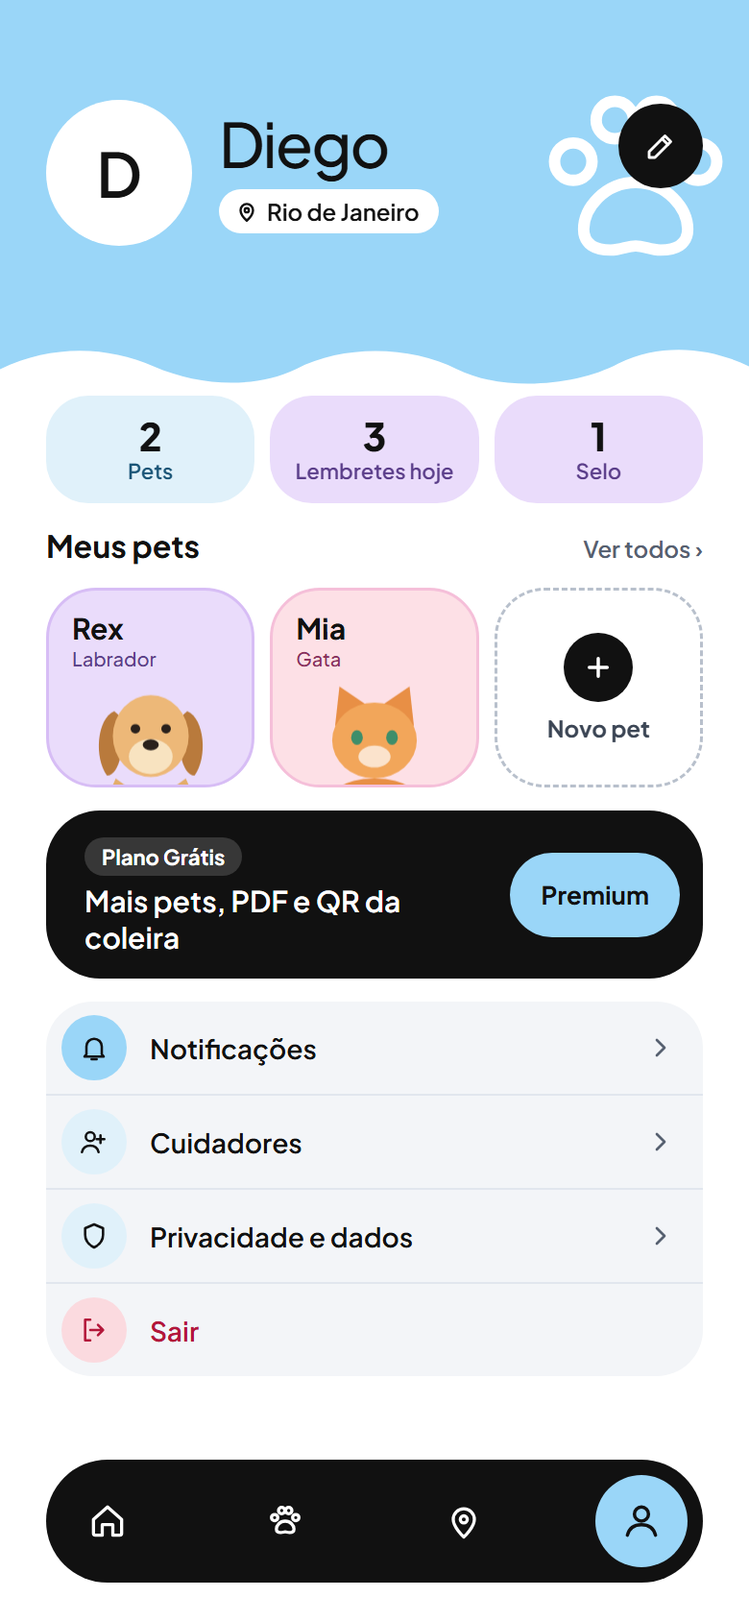
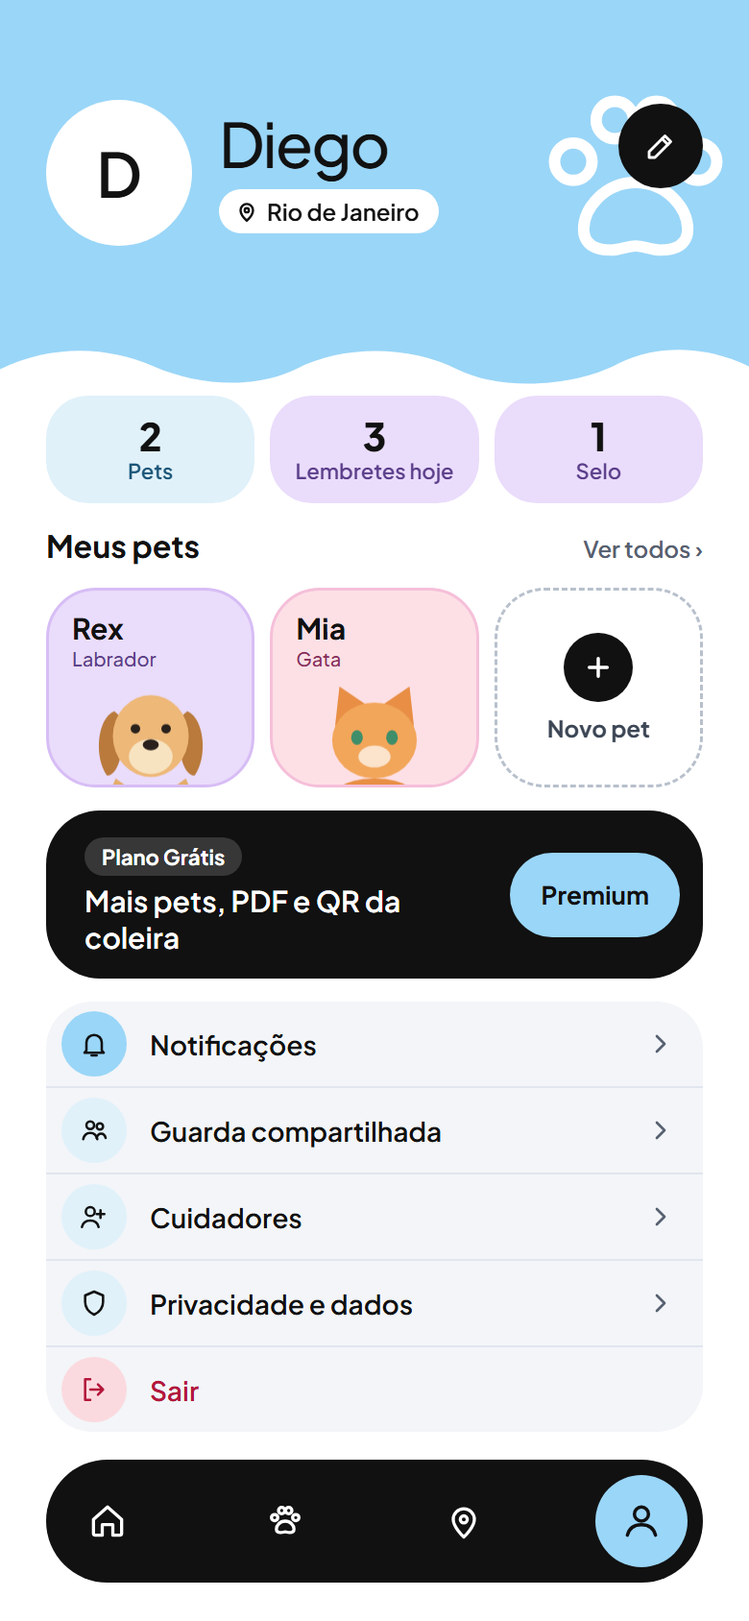
Protótipo: telas da guarda compartilhada (101 a 104)
Guarda compartilhada, Convidar pessoa com vários pets, Convite recebido e
Atualizações do pet. O Perfil ganha a linha Guarda compartilhada; canvas,
miniaturas e imagens atualizados.

diff --git a/prototipo/GuardaAtividade.dc.html b/prototipo/GuardaAtividade.dc.html
@@ -1,0 +1,41 @@
+<!doctype html>
+<html lang="pt-BR">
+<head>
+<meta charset="utf-8">
+<title>Atualizações do pet</title>
+<script src="./support.js"></script>
+</head>
+<body>
+<x-dc>
+<helmet>
+<link rel="stylesheet" href="https://fonts.googleapis.com/css2?family=Plus+Jakarta+Sans:wght@400;500;600;700;800&display=swap">
+<style>
+body{margin:0;font-family:'Plus Jakarta Sans',system-ui,sans-serif;color:#111}
+a{text-decoration:none;color:inherit}
+input::placeholder{color:#8A93A3}
+@media (prefers-reduced-motion:no-preference){
+@keyframes rise{from{opacity:0;translate:0 18px}to{opacity:1;translate:0 0}}
+.rise{animation:rise .6s cubic-bezier(.2,.7,.2,1) both}
+.rise:nth-child(2){animation-delay:.08s}
+.rise:nth-child(3){animation-delay:.16s}
+a{transition:transform .18s ease}
+.tap:hover{transform:translateY(-2px)}
+.tap:active{transform:scale(.97)}
+}
+.etq{display:inline-flex;align-items:center;height:22px;padding:0 9px;border-radius:999px;font-size:11px;font-weight:700}
+.sec{font-weight:700;font-size:15px;margin-top:4px}
+</style>
+</helmet>
+<div style="width:390px;height:844px;box-sizing:border-box;background:#fff;display:flex;flex-direction:column;overflow:hidden">
+<div style="position:relative;height:196px;background:#9AD6F8;flex:none;overflow:hidden;isolation:isolate"><a href="Pet.dc.html" aria-label="Voltar" style="position:absolute;left:24px;top:52px;width:46px;height:46px;border-radius:50%;background:#fff;display:flex;align-items:center;justify-content:center;z-index:1"><svg width="20" height="20" viewBox="0 0 24 24" fill="none" stroke="#111" stroke-width="2.2" stroke-linecap="round" stroke-linejoin="round" aria-hidden="true"><path d="M15 5l-7 7 7 7"/></svg></a><svg style="position:absolute;right:14px;top:40px" width="104" height="104" viewBox="0 0 24 24" fill="none" stroke="#fff" stroke-width="1.1" stroke-linecap="round" stroke-linejoin="round" aria-hidden="true"><circle cx="9" cy="8" r="3"/><circle cx="16.5" cy="9" r="2.5"/><path d="M3.5 19c.6-3.2 2.8-5 5.5-5s4.9 1.8 5.5 5"/><path d="M14 18c.5-2.2 1.9-3.4 3.5-3.4s3 1.2 3.5 3.4"/></svg><div style="position:absolute;left:24px;top:100px;font-size:13px;font-weight:600;color:#1A5577;z-index:1">Guarda compartilhada</div><h1 style="position:absolute;left:24px;top:118px;margin:0;font-weight:500;font-size:32px;line-height:1.05;letter-spacing:-0.03em;z-index:1">Atualizações do Rex</h1><svg style="position:absolute;left:0;bottom:-1px;" width="390" height="46" viewBox="0 0 390 46" preserveAspectRatio="none" aria-hidden="true"><path d="M0 46V26C28 8 56 10 80 24C104 38 132 40 154 26C180 8 214 10 238 26C262 42 300 38 322 22C346 6 372 12 390 24V46z" fill="#fff"/></svg></div><div style="flex:1;padding:0 24px 28px;display:flex;flex-direction:column;gap:4px"><div style="display:flex;align-items:center;justify-content:space-between;margin-bottom:6px"><div style="display:flex;align-items:center"><span style="width:34px;height:34px;border-radius:50%;background:#9AD6F8;color:#111;display:flex;align-items:center;justify-content:center;font-weight:700;font-size:14px;flex:none">D</span><span style="margin-left:-8px;border:2px solid #fff;border-radius:50%;display:flex"><span style="width:30px;height:30px;border-radius:50%;background:#F3F5F8;color:#111;display:flex;align-items:center;justify-content:center;font-weight:700;font-size:12px;flex:none">A</span></span><span style="margin-left:8px;font-size:13px;font-weight:600">Você e Ana</span></div><span style="display:inline-flex;align-items:center;gap:6px;font-size:12px;font-weight:700;color:#1F6B45"><span style="width:8px;height:8px;border-radius:50%;background:#2E9E62"></span>Atualizado agora</span></div><div class="sec">Hoje</div><div class="rise" style="display:flex;flex-direction:column"><div style="display:flex;align-items:center;gap:12px;padding:10px 0"><span style="position:relative;flex:none"><span style="width:42px;height:42px;border-radius:50%;background:#F3F5F8;color:#111;display:flex;align-items:center;justify-content:center;font-weight:700;font-size:17px;flex:none">A</span><span style="position:absolute;right:-4px;bottom:-4px;width:22px;height:22px;border-radius:50%;background:#FDE0E6;border:2px solid #fff;display:flex;align-items:center;justify-content:center"><svg width="11" height="11" viewBox="0 0 24 24" fill="none" stroke="#A3324F" stroke-width="2.6" stroke-linecap="round" stroke-linejoin="round" aria-hidden="true"><path d="M5 19l4-4M10 8l6 6M8 10l7-7 6 6-7 7z"/></svg></span></span><div style="flex:1;min-width:0;font-size:14px;line-height:1.35"><b>Ana</b> registrou a vacina <b>V10</b><div style="font-size:12px;color:#566070">09:14 · Clínica Vet Rio</div></div></div><div style="display:flex;align-items:center;gap:12px;padding:10px 0"><span style="position:relative;flex:none"><span style="width:42px;height:42px;border-radius:50%;background:#F3F5F8;color:#111;display:flex;align-items:center;justify-content:center;font-weight:700;font-size:17px;flex:none">D</span><span style="position:absolute;right:-4px;bottom:-4px;width:22px;height:22px;border-radius:50%;background:#FDE0E6;border:2px solid #fff;display:flex;align-items:center;justify-content:center"><svg width="11" height="11" viewBox="0 0 24 24" fill="none" stroke="#A3324F" stroke-width="2.6" stroke-linecap="round" stroke-linejoin="round" aria-hidden="true"><path d="M5 12l5 5 9-10"/></svg></span></span><div style="flex:1;min-width:0;font-size:14px;line-height:1.35"><b>Você</b> marcou <b>Feito</b> no Antibiótico<div style="font-size:12px;color:#566070">08:02 · dose da manhã</div></div></div><div style="margin:2px 0 6px 54px;background:#FFF0C9;color:#8A6414;border-radius:14px;padding:8px 12px;font-size:12px;font-weight:600">Ana tentou marcar a mesma dose às 8:05. Valeu a sua, sem repetir.</div></div><div class="sec">Ontem</div><div class="rise" style="display:flex;flex-direction:column"><div style="display:flex;align-items:center;gap:12px;padding:10px 0"><span style="position:relative;flex:none"><span style="width:42px;height:42px;border-radius:50%;background:#F3F5F8;color:#111;display:flex;align-items:center;justify-content:center;font-weight:700;font-size:17px;flex:none">A</span><span style="position:absolute;right:-4px;bottom:-4px;width:22px;height:22px;border-radius:50%;background:#FDE0E6;border:2px solid #fff;display:flex;align-items:center;justify-content:center"><svg width="11" height="11" viewBox="0 0 24 24" fill="none" stroke="#A3324F" stroke-width="2.6" stroke-linecap="round" stroke-linejoin="round" aria-hidden="true"><path d="M4 20h16M7 20l2-12h6l2 12"/></svg></span></span><div style="flex:1;min-width:0;font-size:14px;line-height:1.35"><b>Ana</b> registrou o peso: <b>28 kg</b><div style="font-size:12px;color:#566070">19:40</div></div></div><div style="display:flex;align-items:center;gap:12px;padding:10px 0"><span style="position:relative;flex:none"><span style="width:42px;height:42px;border-radius:50%;background:#F3F5F8;color:#111;display:flex;align-items:center;justify-content:center;font-weight:700;font-size:17px;flex:none">A</span><span style="position:absolute;right:-4px;bottom:-4px;width:22px;height:22px;border-radius:50%;background:#EADCFB;border:2px solid #fff;display:flex;align-items:center;justify-content:center"><svg width="11" height="11" viewBox="0 0 24 24" fill="none" stroke="#5B3E8A" stroke-width="2.6" stroke-linecap="round" stroke-linejoin="round" aria-hidden="true"><path d="M4 18c4-1 6-5 8-8s4-4 8-4"/></svg></span></span><div style="flex:1;min-width:0;font-size:14px;line-height:1.35"><b>Ana</b> fez um passeio de <b>34 min</b><div style="font-size:12px;color:#566070">18:10 · 2,1 km</div></div></div><div style="display:flex;align-items:center;gap:12px;padding:10px 0"><span style="position:relative;flex:none"><span style="width:42px;height:42px;border-radius:50%;background:#F3F5F8;color:#111;display:flex;align-items:center;justify-content:center;font-weight:700;font-size:17px;flex:none">D</span><span style="position:absolute;right:-4px;bottom:-4px;width:22px;height:22px;border-radius:50%;background:#EADCFB;border:2px solid #fff;display:flex;align-items:center;justify-content:center"><svg width="11" height="11" viewBox="0 0 24 24" fill="none" stroke="#5B3E8A" stroke-width="2.6" stroke-linecap="round" stroke-linejoin="round" aria-hidden="true"><path d="M6 17V11a6 6 0 0 1 12 0v6l1.5 2h-15z"/></svg></span></span><div style="flex:1;min-width:0;font-size:14px;line-height:1.35"><b>Você</b> criou o lembrete <b>Banho</b><div style="font-size:12px;color:#566070">10:22 · a cada 15 dias</div></div></div></div><a href="GuardaCompartilhada.dc.html" class="tap" style="margin-top:auto;display:flex;align-items:center;gap:12px;background:#F3F5F8;border-radius:24px;padding:12px 16px"><span style="flex:1;font-size:13px;line-height:1.4;color:#566070"><b style="color:#111;display:block;font-size:14px">Quem cuida do Rex</b>Você (titular) e Ana</span><svg width="18" height="18" viewBox="0 0 24 24" fill="none" stroke="#111" stroke-width="2" stroke-linecap="round" stroke-linejoin="round" aria-hidden="true"><path d="M9 6l6 6-6 6"/></svg></a></div>
+</div>
+</x-dc>
+<script type="text/x-dc" data-dc-script data-props='{"$preview":{"width":390,"height":844}}'>
+class Component extends DCLogic {
+  renderVals() {
+    return {};
+  }
+}
+</script>
+</body>
+</html>

diff --git a/prototipo/GuardaCompartilhada.dc.html b/prototipo/GuardaCompartilhada.dc.html
@@ -1,0 +1,41 @@
+<!doctype html>
+<html lang="pt-BR">
+<head>
+<meta charset="utf-8">
+<title>Guarda compartilhada</title>
+<script src="./support.js"></script>
+</head>
+<body>
+<x-dc>
+<helmet>
+<link rel="stylesheet" href="https://fonts.googleapis.com/css2?family=Plus+Jakarta+Sans:wght@400;500;600;700;800&display=swap">
+<style>
+body{margin:0;font-family:'Plus Jakarta Sans',system-ui,sans-serif;color:#111}
+a{text-decoration:none;color:inherit}
+input::placeholder{color:#8A93A3}
+@media (prefers-reduced-motion:no-preference){
+@keyframes rise{from{opacity:0;translate:0 18px}to{opacity:1;translate:0 0}}
+.rise{animation:rise .6s cubic-bezier(.2,.7,.2,1) both}
+.rise:nth-child(2){animation-delay:.08s}
+.rise:nth-child(3){animation-delay:.16s}
+a{transition:transform .18s ease}
+.tap:hover{transform:translateY(-2px)}
+.tap:active{transform:scale(.97)}
+}
+.etq{display:inline-flex;align-items:center;height:22px;padding:0 9px;border-radius:999px;font-size:11px;font-weight:700}
+.sec{font-weight:700;font-size:15px;margin-top:4px}
+</style>
+</helmet>
+<div style="width:390px;height:844px;box-sizing:border-box;background:#fff;display:flex;flex-direction:column;overflow:hidden">
+<div style="position:relative;height:196px;background:#9AD6F8;flex:none;overflow:hidden;isolation:isolate"><a href="Perfil.dc.html" aria-label="Voltar" style="position:absolute;left:24px;top:52px;width:46px;height:46px;border-radius:50%;background:#fff;display:flex;align-items:center;justify-content:center;z-index:1"><svg width="20" height="20" viewBox="0 0 24 24" fill="none" stroke="#111" stroke-width="2.2" stroke-linecap="round" stroke-linejoin="round" aria-hidden="true"><path d="M15 5l-7 7 7 7"/></svg></a><svg style="position:absolute;right:14px;top:40px" width="104" height="104" viewBox="0 0 24 24" fill="none" stroke="#fff" stroke-width="1.1" stroke-linecap="round" stroke-linejoin="round" aria-hidden="true"><circle cx="9" cy="8" r="3"/><circle cx="16.5" cy="9" r="2.5"/><path d="M3.5 19c.6-3.2 2.8-5 5.5-5s4.9 1.8 5.5 5"/><path d="M14 18c.5-2.2 1.9-3.4 3.5-3.4s3 1.2 3.5 3.4"/></svg><div style="position:absolute;left:24px;top:100px;font-size:13px;font-weight:600;color:#1A5577;z-index:1">Divida os cuidados dos seus pets</div><h1 style="position:absolute;left:24px;top:118px;margin:0;font-weight:500;font-size:32px;line-height:1.05;letter-spacing:-0.03em;z-index:1">Guarda compartilhada</h1><svg style="position:absolute;left:0;bottom:-1px;" width="390" height="46" viewBox="0 0 390 46" preserveAspectRatio="none" aria-hidden="true"><path d="M0 46V26C28 8 56 10 80 24C104 38 132 40 154 26C180 8 214 10 238 26C262 42 300 38 322 22C346 6 372 12 390 24V46z" fill="#fff"/></svg></div><div style="flex:1;padding:6px 24px 28px;display:flex;flex-direction:column;gap:12px"><div class="rise" style="background:#E0F1FA;border-radius:24px;padding:14px 18px;font-size:13px;line-height:1.45;color:#1A5577"><b style="color:#111">Quem divide a guarda cuida junto:</b> vê e atualiza vacinas, remédios, peso e lembretes. Tudo o que um registra aparece para todos na hora.</div><div class="sec">Pessoas</div><a href="GuardaAtividade.dc.html" class="rise tap" style="display:flex;flex-direction:column;gap:10px;background:#fff;border:1.5px solid #E1E6EE;border-radius:26px;padding:14px 16px"><div style="display:flex;align-items:center;gap:12px"><span style="width:44px;height:44px;border-radius:50%;background:#F3F5F8;color:#111;display:flex;align-items:center;justify-content:center;font-weight:700;font-size:18px;flex:none">A</span><div style="flex:1;min-width:0"><div style="font-weight:700;font-size:16px">Ana</div><div style="font-size:12px;color:#566070">Desde 12/10 · atualizou há 2 h</div></div><span class="etq" style="background:#D8F2E3;color:#1F6B45">Ativa</span></div><div style="display:flex;gap:6px;flex-wrap:wrap"><span style="display:inline-flex;align-items:center;gap:6px;height:30px;padding:0 10px 0 3px;border-radius:999px;background:#fff;border:1.5px solid #E1E6EE;box-sizing:border-box;font-size:12px;font-weight:700"><span style="width:24px;height:24px;border-radius:50%;background:#CFE8FB;overflow:hidden;display:flex;align-items:flex-end;justify-content:center;flex:none"><svg width="20" height="20" viewBox="0 0 200 200" aria-hidden="true"><path d="M52 150Q100 190 148 150L170 200H30z" fill="#E3AD6A"/><path d="M50 58C26 68 22 122 40 146C58 146 64 102 64 70z" fill="#B97A3C"/><path d="M150 58C174 68 178 122 160 146C142 146 136 102 136 70z" fill="#B97A3C"/><ellipse cx="100" cy="92" rx="52" ry="56" fill="#EDB878"/><ellipse cx="100" cy="120" rx="30" ry="24" fill="#F8E3C0"/><ellipse cx="100" cy="104" rx="11" ry="7.5" fill="#2A211C"/><circle cx="79" cy="82" r="7" fill="#2A211C"/><circle cx="121" cy="82" r="7" fill="#2A211C"/></svg></span>Rex</span><span style="display:inline-flex;align-items:center;gap:6px;height:30px;padding:0 10px 0 3px;border-radius:999px;background:#fff;border:1.5px solid #E1E6EE;box-sizing:border-box;font-size:12px;font-weight:700"><span style="width:24px;height:24px;border-radius:50%;background:#EADCFB;overflow:hidden;display:flex;align-items:flex-end;justify-content:center;flex:none"><svg width="20" height="20" viewBox="0 0 200 200" aria-hidden="true"><path d="M30 200Q36 150 100 150Q164 150 170 200z" fill="#E88F45"/><path d="M46 78L52 24L96 54z" fill="#E88F45"/><path d="M154 78L148 24L104 54z" fill="#E88F45"/><ellipse cx="100" cy="98" rx="58" ry="52" fill="#F2A65A"/><ellipse cx="100" cy="120" rx="22" ry="15" fill="#FBE3CC"/><ellipse cx="76" cy="94" rx="8" ry="10" fill="#3E8E6A"/><ellipse cx="124" cy="94" rx="8" ry="10" fill="#3E8E6A"/><ellipse cx="76" cy="94" rx="2.5" ry="7" fill="#1D1A18"/><ellipse cx="124" cy="94" rx="2.5" ry="7" fill="#1D1A18"/><path d="M93 109h14l-7 9z" fill="#E57373"/></svg></span>Mia</span></div></a><div class="rise" style="display:flex;flex-direction:column;gap:10px;background:#fff;border:1.5px solid #E1E6EE;border-radius:26px;padding:14px 16px"><div style="display:flex;align-items:center;gap:12px"><span style="width:44px;height:44px;border-radius:50%;background:#F3F5F8;color:#111;display:flex;align-items:center;justify-content:center;font-weight:700;font-size:18px;flex:none">C</span><div style="flex:1;min-width:0"><div style="font-weight:700;font-size:16px">carlos@email.com</div><div style="font-size:12px;color:#566070">Convite enviado · vale até 01/11</div></div><span class="etq" style="background:#FFF0C9;color:#8A6414">Aguardando</span></div><div style="display:flex;gap:6px;align-items:center;justify-content:space-between"><span style="display:inline-flex;align-items:center;gap:6px;height:30px;padding:0 10px 0 3px;border-radius:999px;background:#fff;border:1.5px solid #E1E6EE;box-sizing:border-box;font-size:12px;font-weight:700"><span style="width:24px;height:24px;border-radius:50%;background:#CFE8FB;overflow:hidden;display:flex;align-items:flex-end;justify-content:center;flex:none"><svg width="20" height="20" viewBox="0 0 200 200" aria-hidden="true"><path d="M52 150Q100 190 148 150L170 200H30z" fill="#E3AD6A"/><path d="M50 58C26 68 22 122 40 146C58 146 64 102 64 70z" fill="#B97A3C"/><path d="M150 58C174 68 178 122 160 146C142 146 136 102 136 70z" fill="#B97A3C"/><ellipse cx="100" cy="92" rx="52" ry="56" fill="#EDB878"/><ellipse cx="100" cy="120" rx="30" ry="24" fill="#F8E3C0"/><ellipse cx="100" cy="104" rx="11" ry="7.5" fill="#2A211C"/><circle cx="79" cy="82" r="7" fill="#2A211C"/><circle cx="121" cy="82" r="7" fill="#2A211C"/></svg></span>Rex</span><span style="font-size:12px;font-weight:700;color:#A3324F">Cancelar convite</span></div></div><div style="font-size:12px;line-height:1.45;color:#566070;padding:0 4px">Até 4 pessoas por pet. Só você apaga o pet, convida ou remove pessoas. Incluído no Premium.</div><a href="GuardaConvidar.dc.html" style="margin-top:auto;height:64px;border-radius:32px;background:#111;color:#fff;display:flex;align-items:center;padding:0 6px;flex:none"><span style="width:52px;height:52px;border-radius:50%;background:#9AD6F8;display:flex;align-items:center;justify-content:center;flex:none"><svg width="22" height="22" viewBox="0 0 24 24" fill="none" stroke="#111" stroke-width="2.6" stroke-linecap="round" stroke-linejoin="round" aria-hidden="true"><path d="M12 5v14M5 12h14"/></svg></span><span style="flex:1;text-align:center;font-weight:600;font-size:17px;padding-right:52px">Convidar pessoa</span></a></div>
+</div>
+</x-dc>
+<script type="text/x-dc" data-dc-script data-props='{"$preview":{"width":390,"height":844}}'>
+class Component extends DCLogic {
+  renderVals() {
+    return {};
+  }
+}
+</script>
+</body>
+</html>

diff --git a/prototipo/GuardaConvidar.dc.html b/prototipo/GuardaConvidar.dc.html
@@ -1,0 +1,41 @@
+<!doctype html>
+<html lang="pt-BR">
+<head>
+<meta charset="utf-8">
+<title>Convidar pessoa</title>
+<script src="./support.js"></script>
+</head>
+<body>
+<x-dc>
+<helmet>
+<link rel="stylesheet" href="https://fonts.googleapis.com/css2?family=Plus+Jakarta+Sans:wght@400;500;600;700;800&display=swap">
+<style>
+body{margin:0;font-family:'Plus Jakarta Sans',system-ui,sans-serif;color:#111}
+a{text-decoration:none;color:inherit}
+input::placeholder{color:#8A93A3}
+@media (prefers-reduced-motion:no-preference){
+@keyframes rise{from{opacity:0;translate:0 18px}to{opacity:1;translate:0 0}}
+.rise{animation:rise .6s cubic-bezier(.2,.7,.2,1) both}
+.rise:nth-child(2){animation-delay:.08s}
+.rise:nth-child(3){animation-delay:.16s}
+a{transition:transform .18s ease}
+.tap:hover{transform:translateY(-2px)}
+.tap:active{transform:scale(.97)}
+}
+.etq{display:inline-flex;align-items:center;height:22px;padding:0 9px;border-radius:999px;font-size:11px;font-weight:700}
+.sec{font-weight:700;font-size:15px;margin-top:4px}
+</style>
+</helmet>
+<div style="width:390px;height:844px;box-sizing:border-box;background:#fff;display:flex;flex-direction:column;overflow:hidden">
+<div style="position:relative;height:196px;background:#9AD6F8;flex:none;overflow:hidden;isolation:isolate"><a href="GuardaCompartilhada.dc.html" aria-label="Voltar" style="position:absolute;left:24px;top:52px;width:46px;height:46px;border-radius:50%;background:#fff;display:flex;align-items:center;justify-content:center;z-index:1"><svg width="20" height="20" viewBox="0 0 24 24" fill="none" stroke="#111" stroke-width="2.2" stroke-linecap="round" stroke-linejoin="round" aria-hidden="true"><path d="M15 5l-7 7 7 7"/></svg></a><svg style="position:absolute;right:14px;top:40px" width="104" height="104" viewBox="0 0 24 24" fill="none" stroke="#fff" stroke-width="1.1" stroke-linecap="round" stroke-linejoin="round" aria-hidden="true"><circle cx="9" cy="8" r="3"/><circle cx="16.5" cy="9" r="2.5"/><path d="M3.5 19c.6-3.2 2.8-5 5.5-5s4.9 1.8 5.5 5"/><path d="M14 18c.5-2.2 1.9-3.4 3.5-3.4s3 1.2 3.5 3.4"/></svg><div style="position:absolute;left:24px;top:100px;font-size:13px;font-weight:600;color:#1A5577;z-index:1">Guarda compartilhada</div><h1 style="position:absolute;left:24px;top:118px;margin:0;font-weight:500;font-size:32px;line-height:1.05;letter-spacing:-0.03em;z-index:1">Convidar pessoa</h1><svg style="position:absolute;left:0;bottom:-1px;" width="390" height="46" viewBox="0 0 390 46" preserveAspectRatio="none" aria-hidden="true"><path d="M0 46V26C28 8 56 10 80 24C104 38 132 40 154 26C180 8 214 10 238 26C262 42 300 38 322 22C346 6 372 12 390 24V46z" fill="#fff"/></svg></div><div style="flex:1;padding:6px 24px 28px;display:flex;flex-direction:column;gap:12px"><div style="background:#F3F5F8;border-radius:24px;padding:10px 20px;display:flex;flex-direction:column"><label for="email" style="font-size:12px;font-weight:600;color:#566070">E-mail da pessoa</label><input id="email" type="email" value="ana@email.com" style="border:0;background:transparent;outline:0;font:inherit;font-size:16px;font-weight:600;padding:2px 0;height:26px"></div><div class="sec">Quais pets? <span style="font-weight:500;font-size:13px;color:#566070">Escolha um ou mais</span></div><div class="rise tap" style="display:flex;align-items:center;gap:12px;background:#fff;border:2px solid #111;border-radius:24px;padding:10px 14px 10px 10px"><span style="width:48px;height:48px;border-radius:50%;background:#CFE8FB;overflow:hidden;display:flex;align-items:flex-end;justify-content:center;flex:none"><svg width="44" height="44" viewBox="0 0 200 200" aria-hidden="true"><path d="M52 150Q100 190 148 150L170 200H30z" fill="#E3AD6A"/><path d="M50 58C26 68 22 122 40 146C58 146 64 102 64 70z" fill="#B97A3C"/><path d="M150 58C174 68 178 122 160 146C142 146 136 102 136 70z" fill="#B97A3C"/><ellipse cx="100" cy="92" rx="52" ry="56" fill="#EDB878"/><ellipse cx="100" cy="120" rx="30" ry="24" fill="#F8E3C0"/><ellipse cx="100" cy="104" rx="11" ry="7.5" fill="#2A211C"/><circle cx="79" cy="82" r="7" fill="#2A211C"/><circle cx="121" cy="82" r="7" fill="#2A211C"/></svg></span><div style="flex:1"><div style="font-weight:700;font-size:15px">Rex</div><div style="font-size:12px;color:#566070">Labrador · 3 anos</div></div><span style="width:28px;height:28px;border-radius:50%;background:#111;display:flex;align-items:center;justify-content:center;flex:none"><svg width="14" height="14" viewBox="0 0 24 24" fill="none" stroke="#fff" stroke-width="3" stroke-linecap="round" stroke-linejoin="round" aria-hidden="true"><path d="M5 12l5 5 9-10"/></svg></span></div><div class="rise tap" style="display:flex;align-items:center;gap:12px;background:#fff;border:2px solid #111;border-radius:24px;padding:10px 14px 10px 10px"><span style="width:48px;height:48px;border-radius:50%;background:#EADCFB;overflow:hidden;display:flex;align-items:flex-end;justify-content:center;flex:none"><svg width="44" height="44" viewBox="0 0 200 200" aria-hidden="true"><path d="M30 200Q36 150 100 150Q164 150 170 200z" fill="#E88F45"/><path d="M46 78L52 24L96 54z" fill="#E88F45"/><path d="M154 78L148 24L104 54z" fill="#E88F45"/><ellipse cx="100" cy="98" rx="58" ry="52" fill="#F2A65A"/><ellipse cx="100" cy="120" rx="22" ry="15" fill="#FBE3CC"/><ellipse cx="76" cy="94" rx="8" ry="10" fill="#3E8E6A"/><ellipse cx="124" cy="94" rx="8" ry="10" fill="#3E8E6A"/><ellipse cx="76" cy="94" rx="2.5" ry="7" fill="#1D1A18"/><ellipse cx="124" cy="94" rx="2.5" ry="7" fill="#1D1A18"/><path d="M93 109h14l-7 9z" fill="#E57373"/></svg></span><div style="flex:1"><div style="font-weight:700;font-size:15px">Mia</div><div style="font-size:12px;color:#566070">Gata · 12 anos</div></div><span style="width:28px;height:28px;border-radius:50%;background:#111;display:flex;align-items:center;justify-content:center;flex:none"><svg width="14" height="14" viewBox="0 0 24 24" fill="none" stroke="#fff" stroke-width="3" stroke-linecap="round" stroke-linejoin="round" aria-hidden="true"><path d="M5 12l5 5 9-10"/></svg></span></div><div style="display:grid;grid-template-columns:1fr 1fr;gap:8px"><div style="background:#D8F2E3;border-radius:22px;padding:12px 14px;font-size:12px;line-height:1.5;color:#1F6B45"><b style="display:block;font-size:13px;margin-bottom:2px">Pode</b>Ver e atualizar vacinas, remédios e doses, peso, consultas e lembretes</div><div style="background:#F3F5F8;border-radius:22px;padding:12px 14px;font-size:12px;line-height:1.5;color:#566070"><b style="display:block;font-size:13px;margin-bottom:2px;color:#111">Não pode</b>Apagar o pet, convidar pessoas, ver seu contato e pagamentos</div></div><div style="font-size:12px;line-height:1.45;color:#566070;padding:0 4px">A pessoa recebe o convite no app e por e-mail. O acesso só começa quando ela aceitar. O convite vale 7 dias.</div><a href="GuardaCompartilhada.dc.html" style="margin-top:auto;height:64px;border-radius:32px;background:#111;color:#fff;display:flex;align-items:center;padding:0 6px;flex:none"><span style="width:52px;height:52px;border-radius:50%;background:#9AD6F8;display:flex;align-items:center;justify-content:center;flex:none"><svg width="22" height="22" viewBox="0 0 24 24" fill="none" stroke="#111" stroke-width="2.6" stroke-linecap="round" stroke-linejoin="round" aria-hidden="true"><path d="M4 12l16-8-6 16-3-7z"/></svg></span><span style="flex:1;text-align:center;font-weight:600;font-size:17px;padding-right:52px">Enviar convite</span></a></div>
+</div>
+</x-dc>
+<script type="text/x-dc" data-dc-script data-props='{"$preview":{"width":390,"height":844}}'>
+class Component extends DCLogic {
+  renderVals() {
+    return {};
+  }
+}
+</script>
+</body>
+</html>

diff --git a/prototipo/GuardaConvite.dc.html b/prototipo/GuardaConvite.dc.html
@@ -1,0 +1,41 @@
+<!doctype html>
+<html lang="pt-BR">
+<head>
+<meta charset="utf-8">
+<title>Convite de guarda</title>
+<script src="./support.js"></script>
+</head>
+<body>
+<x-dc>
+<helmet>
+<link rel="stylesheet" href="https://fonts.googleapis.com/css2?family=Plus+Jakarta+Sans:wght@400;500;600;700;800&display=swap">
+<style>
+body{margin:0;font-family:'Plus Jakarta Sans',system-ui,sans-serif;color:#111}
+a{text-decoration:none;color:inherit}
+input::placeholder{color:#8A93A3}
+@media (prefers-reduced-motion:no-preference){
+@keyframes rise{from{opacity:0;translate:0 18px}to{opacity:1;translate:0 0}}
+.rise{animation:rise .6s cubic-bezier(.2,.7,.2,1) both}
+.rise:nth-child(2){animation-delay:.08s}
+.rise:nth-child(3){animation-delay:.16s}
+a{transition:transform .18s ease}
+.tap:hover{transform:translateY(-2px)}
+.tap:active{transform:scale(.97)}
+}
+.etq{display:inline-flex;align-items:center;height:22px;padding:0 9px;border-radius:999px;font-size:11px;font-weight:700}
+.sec{font-weight:700;font-size:15px;margin-top:4px}
+</style>
+</helmet>
+<div style="width:390px;height:844px;box-sizing:border-box;background:#fff;display:flex;flex-direction:column;overflow:hidden">
+<div style="position:relative;height:250px;background:#9AD6F8;flex:none;overflow:hidden;isolation:isolate"><svg style="position:absolute;right:14px;top:40px" width="104" height="104" viewBox="0 0 24 24" fill="none" stroke="#fff" stroke-width="1.1" stroke-linecap="round" stroke-linejoin="round" aria-hidden="true"><circle cx="9" cy="8" r="3"/><circle cx="16.5" cy="9" r="2.5"/><path d="M3.5 19c.6-3.2 2.8-5 5.5-5s4.9 1.8 5.5 5"/><path d="M14 18c.5-2.2 1.9-3.4 3.5-3.4s3 1.2 3.5 3.4"/></svg><div style="position:absolute;left:24px;top:58px;display:flex;align-items:center;gap:10px;z-index:1"><span style="width:46px;height:46px;border-radius:50%;background:#fff;color:#111;display:flex;align-items:center;justify-content:center;font-weight:700;font-size:19px;flex:none">D</span><span style="font-size:14px;font-weight:600">Diego convidou você</span></div><h1 style="position:absolute;left:24px;right:24px;top:118px;margin:0;font-weight:500;font-size:30px;line-height:1.1;letter-spacing:-0.03em;z-index:1">Dividir os cuidados do Rex e da Mia</h1><svg style="position:absolute;left:0;bottom:-1px;" width="390" height="46" viewBox="0 0 390 46" preserveAspectRatio="none" aria-hidden="true"><path d="M0 46V26C28 8 56 10 80 24C104 38 132 40 154 26C180 8 214 10 238 26C262 42 300 38 322 22C346 6 372 12 390 24V46z" fill="#fff"/></svg></div><div style="flex:1;padding:6px 24px 28px;display:flex;flex-direction:column;gap:12px"><div class="sec">Aceitar quais pets?</div><div class="rise tap" style="display:flex;align-items:center;gap:12px;background:#fff;border:2px solid #111;border-radius:24px;padding:10px 14px 10px 10px"><span style="width:48px;height:48px;border-radius:50%;background:#CFE8FB;overflow:hidden;display:flex;align-items:flex-end;justify-content:center;flex:none"><svg width="44" height="44" viewBox="0 0 200 200" aria-hidden="true"><path d="M52 150Q100 190 148 150L170 200H30z" fill="#E3AD6A"/><path d="M50 58C26 68 22 122 40 146C58 146 64 102 64 70z" fill="#B97A3C"/><path d="M150 58C174 68 178 122 160 146C142 146 136 102 136 70z" fill="#B97A3C"/><ellipse cx="100" cy="92" rx="52" ry="56" fill="#EDB878"/><ellipse cx="100" cy="120" rx="30" ry="24" fill="#F8E3C0"/><ellipse cx="100" cy="104" rx="11" ry="7.5" fill="#2A211C"/><circle cx="79" cy="82" r="7" fill="#2A211C"/><circle cx="121" cy="82" r="7" fill="#2A211C"/></svg></span><div style="flex:1"><div style="font-weight:700;font-size:15px">Rex</div><div style="font-size:12px;color:#566070">Labrador · 3 anos</div></div><span style="width:28px;height:28px;border-radius:50%;background:#111;display:flex;align-items:center;justify-content:center;flex:none"><svg width="14" height="14" viewBox="0 0 24 24" fill="none" stroke="#fff" stroke-width="3" stroke-linecap="round" stroke-linejoin="round" aria-hidden="true"><path d="M5 12l5 5 9-10"/></svg></span></div><div class="rise tap" style="display:flex;align-items:center;gap:12px;background:#fff;border:2px solid #111;border-radius:24px;padding:10px 14px 10px 10px"><span style="width:48px;height:48px;border-radius:50%;background:#EADCFB;overflow:hidden;display:flex;align-items:flex-end;justify-content:center;flex:none"><svg width="44" height="44" viewBox="0 0 200 200" aria-hidden="true"><path d="M30 200Q36 150 100 150Q164 150 170 200z" fill="#E88F45"/><path d="M46 78L52 24L96 54z" fill="#E88F45"/><path d="M154 78L148 24L104 54z" fill="#E88F45"/><ellipse cx="100" cy="98" rx="58" ry="52" fill="#F2A65A"/><ellipse cx="100" cy="120" rx="22" ry="15" fill="#FBE3CC"/><ellipse cx="76" cy="94" rx="8" ry="10" fill="#3E8E6A"/><ellipse cx="124" cy="94" rx="8" ry="10" fill="#3E8E6A"/><ellipse cx="76" cy="94" rx="2.5" ry="7" fill="#1D1A18"/><ellipse cx="124" cy="94" rx="2.5" ry="7" fill="#1D1A18"/><path d="M93 109h14l-7 9z" fill="#E57373"/></svg></span><div style="flex:1"><div style="font-weight:700;font-size:15px">Mia</div><div style="font-size:12px;color:#566070">Gata · 12 anos</div></div><span style="width:28px;height:28px;border-radius:50%;background:#111;display:flex;align-items:center;justify-content:center;flex:none"><svg width="14" height="14" viewBox="0 0 24 24" fill="none" stroke="#fff" stroke-width="3" stroke-linecap="round" stroke-linejoin="round" aria-hidden="true"><path d="M5 12l5 5 9-10"/></svg></span></div><div style="background:#F3F5F8;border-radius:22px;padding:12px 16px;font-size:13px;line-height:1.5;color:#566070">Você vai ver e atualizar vacinas, remédios, peso e lembretes. O que você registrar aparece para o Diego na hora, com o seu nome. Você pode sair da guarda quando quiser.</div><div style="display:flex;align-items:center;gap:6px;font-size:12px;font-weight:600;color:#8A6414"><span class="etq" style="background:#FFF0C9;color:#8A6414">Vale até 01/11</span>Não precisa de Premium</div><a href="GuardaAtividade.dc.html" style="margin-top:auto;height:64px;border-radius:32px;background:#111;color:#fff;display:flex;align-items:center;padding:0 6px;flex:none"><span style="width:52px;height:52px;border-radius:50%;background:#9AD6F8;display:flex;align-items:center;justify-content:center;flex:none"><svg width="22" height="22" viewBox="0 0 24 24" fill="none" stroke="#111" stroke-width="2.6" stroke-linecap="round" stroke-linejoin="round" aria-hidden="true"><path d="M5 12l5 5 9-10"/></svg></span><span style="flex:1;text-align:center;font-weight:600;font-size:17px;padding-right:52px">Aceitar</span></a><a href="Inicio.dc.html" style="height:52px;border-radius:26px;border:1.5px solid #E1E6EE;display:flex;align-items:center;justify-content:center;font-weight:600;font-size:15px;flex:none">Recusar</a></div>
+</div>
+</x-dc>
+<script type="text/x-dc" data-dc-script data-props='{"$preview":{"width":390,"height":844}}'>
+class Component extends DCLogic {
+  renderVals() {
+    return {};
+  }
+}
+</script>
+</body>
+</html>

diff --git a/prototipo/Perfil.dc.html b/prototipo/Perfil.dc.html
@@ -26,7 +26,7 @@ a{transition:transform .18s ease}
 .tap:active{transform:scale(.97)}
 nav a:hover{transform:translateY(-3px)}
 }
-.row{display:flex;align-items:center;gap:12px;height:48px;padding:0 14px 0 8px;font-size:14px;font-weight:600}
+.row{display:flex;align-items:center;gap:12px;height:44px;padding:0 14px 0 8px;font-size:14px;font-weight:600}
 .row + .row{border-top:1px solid #E1E6EE}
 </style>
 </helmet>
@@ -75,6 +75,7 @@ nav a:hover{transform:translateY(-3px)}
 
     <div class="rise" style="background:#F3F5F8;border-radius:24px;overflow:hidden">
       <a href="Notificacoes.dc.html" class="row"><span style="width:34px;height:34px;border-radius:50%;background:#9AD6F8;display:flex;align-items:center;justify-content:center;flex:none"><svg width="16" height="16" viewBox="0 0 24 24" fill="none" stroke="#111" stroke-width="1.9" stroke-linecap="round" stroke-linejoin="round" aria-hidden="true"><path d="M6 17V11a6 6 0 0 1 12 0v6l1.5 2h-15z"/><path d="M10 21h4"/></svg></span><span style="flex:1">Notificações</span><svg width="16" height="16" viewBox="0 0 24 24" fill="none" stroke="#566070" stroke-width="2" stroke-linecap="round" stroke-linejoin="round" aria-hidden="true"><path d="M9 6l6 6-6 6"/></svg></a>
+      <a href="GuardaCompartilhada.dc.html" class="row"><span style="width:34px;height:34px;border-radius:50%;background:#E0F1FA;display:flex;align-items:center;justify-content:center;flex:none"><svg width="16" height="16" viewBox="0 0 24 24" fill="none" stroke="#111" stroke-width="1.9" stroke-linecap="round" stroke-linejoin="round" aria-hidden="true"><circle cx="9" cy="8" r="3"/><circle cx="16.5" cy="9" r="2.5"/><path d="M3.5 19c.6-3.2 2.8-5 5.5-5s4.9 1.8 5.5 5"/><path d="M14 18c.5-2.2 1.9-3.4 3.5-3.4s3 1.2 3.5 3.4"/></svg></span><span style="flex:1">Guarda compartilhada</span><svg width="16" height="16" viewBox="0 0 24 24" fill="none" stroke="#566070" stroke-width="2" stroke-linecap="round" stroke-linejoin="round" aria-hidden="true"><path d="M9 6l6 6-6 6"/></svg></a>
       <a href="Cuidador.dc.html" class="row"><span style="width:34px;height:34px;border-radius:50%;background:#E0F1FA;display:flex;align-items:center;justify-content:center;flex:none"><svg width="16" height="16" viewBox="0 0 24 24" fill="none" stroke="#111" stroke-width="1.9" stroke-linecap="round" stroke-linejoin="round" aria-hidden="true"><circle cx="9" cy="8" r="3.5"/><path d="M2.5 20c.8-3.5 3.3-5 6.5-5s5.7 1.5 6.5 5"/><path d="M17 7v6M14 10h6"/></svg></span><span style="flex:1">Cuidadores</span><svg width="16" height="16" viewBox="0 0 24 24" fill="none" stroke="#566070" stroke-width="2" stroke-linecap="round" stroke-linejoin="round" aria-hidden="true"><path d="M9 6l6 6-6 6"/></svg></a>
       <a href="PrivacidadeDados.dc.html" class="row"><span style="width:34px;height:34px;border-radius:50%;background:#E0F1FA;display:flex;align-items:center;justify-content:center;flex:none"><svg width="16" height="16" viewBox="0 0 24 24" fill="none" stroke="#111" stroke-width="1.9" stroke-linecap="round" stroke-linejoin="round" aria-hidden="true"><path d="M12 3l7 3v5c0 5-3 8-7 10-4-2-7-5-7-10V6z"/></svg></span><span style="flex:1">Privacidade e dados</span><svg width="16" height="16" viewBox="0 0 24 24" fill="none" stroke="#566070" stroke-width="2" stroke-linecap="round" stroke-linejoin="round" aria-hidden="true"><path d="M9 6l6 6-6 6"/></svg></a>
       <a href="Welcome.dc.html" class="row" style="color:#B3173A"><span style="width:34px;height:34px;border-radius:50%;background:#FBDADF;display:flex;align-items:center;justify-content:center;flex:none"><svg width="16" height="16" viewBox="0 0 24 24" fill="none" stroke="#B3173A" stroke-width="1.9" stroke-linecap="round" stroke-linejoin="round" aria-hidden="true"><path d="M9 4H5v16h4"/><path d="M15 8l4 4-4 4M19 12H9"/></svg></span><span style="flex:1">Sair</span></a>

diff --git a/prototipo/imagens/README.md b/prototipo/imagens/README.md
@@ -28,7 +28,7 @@ Capturas das telas do protótipo, geradas a partir de `prototipo/*.dc.html` e or
 
 # Fase 2 · Premium, eventos, adoção e painel admin
 
-## App do tutor (49)
+## App do tutor (53)
 
 | | | | |
 | --- | --- | --- | --- |
@@ -44,7 +44,8 @@ Capturas das telas do protótipo, geradas a partir de `prototipo/*.dc.html` e or
 | <img src="tutor/83-reativar-o-pet.png" width="160"><br>83 · Reativar o pet | <img src="tutor/84-pet-senior.png" width="160"><br>84 · Pet sênior | <img src="tutor/85-aviso-pet-senior.png" width="160"><br>85 · Aviso: pet sênior | <img src="tutor/85-pet-senior-tela-do-pet.png" width="160"><br>85 · Pet sênior, tela do pet |
 | <img src="tutor/85-qualidade-de-vida.png" width="160"><br>85 · Qualidade de vida | <img src="tutor/88-ficha-da-clinica-com-enviar-ficha.png" width="160"><br>88 · Ficha da clínica com enviar ficha | <img src="tutor/89-enviar-ficha-a-clinica.png" width="160"><br>89 · Enviar ficha à clínica | <img src="tutor/91-link-da-ficha-expirado.png" width="160"><br>91 · Link da ficha expirado |
 | <img src="tutor/92-visao-do-cuidador-link.png" width="160"><br>92 · Visão do cuidador (link) | <img src="tutor/93-cadastro-da-ong.png" width="160"><br>93 · Cadastro da ONG | <img src="tutor/94-novo-pet-para-adocao-modo-ong.png" width="160"><br>94 · Novo pet para adoção (modo ONG) | <img src="tutor/95-pets-e-interessados-modo-ong.png" width="160"><br>95 · Pets e interessados (modo ONG) |
-| <img src="tutor/96-meus-eventos.png" width="160"><br>96 · Meus eventos | | | |
+| <img src="tutor/96-meus-eventos.png" width="160"><br>96 · Meus eventos | <img src="tutor/101-guarda-compartilhada.png" width="160"><br>101 · Guarda compartilhada | <img src="tutor/102-convidar-para-a-guarda.png" width="160"><br>102 · Convidar para a guarda | <img src="tutor/103-convite-de-guarda-recebido.png" width="160"><br>103 · Convite de guarda recebido |
+| <img src="tutor/104-atualizacoes-do-pet.png" width="160"><br>104 · Atualizações do pet |  |  |  |
 
 ## Site (1)
 
